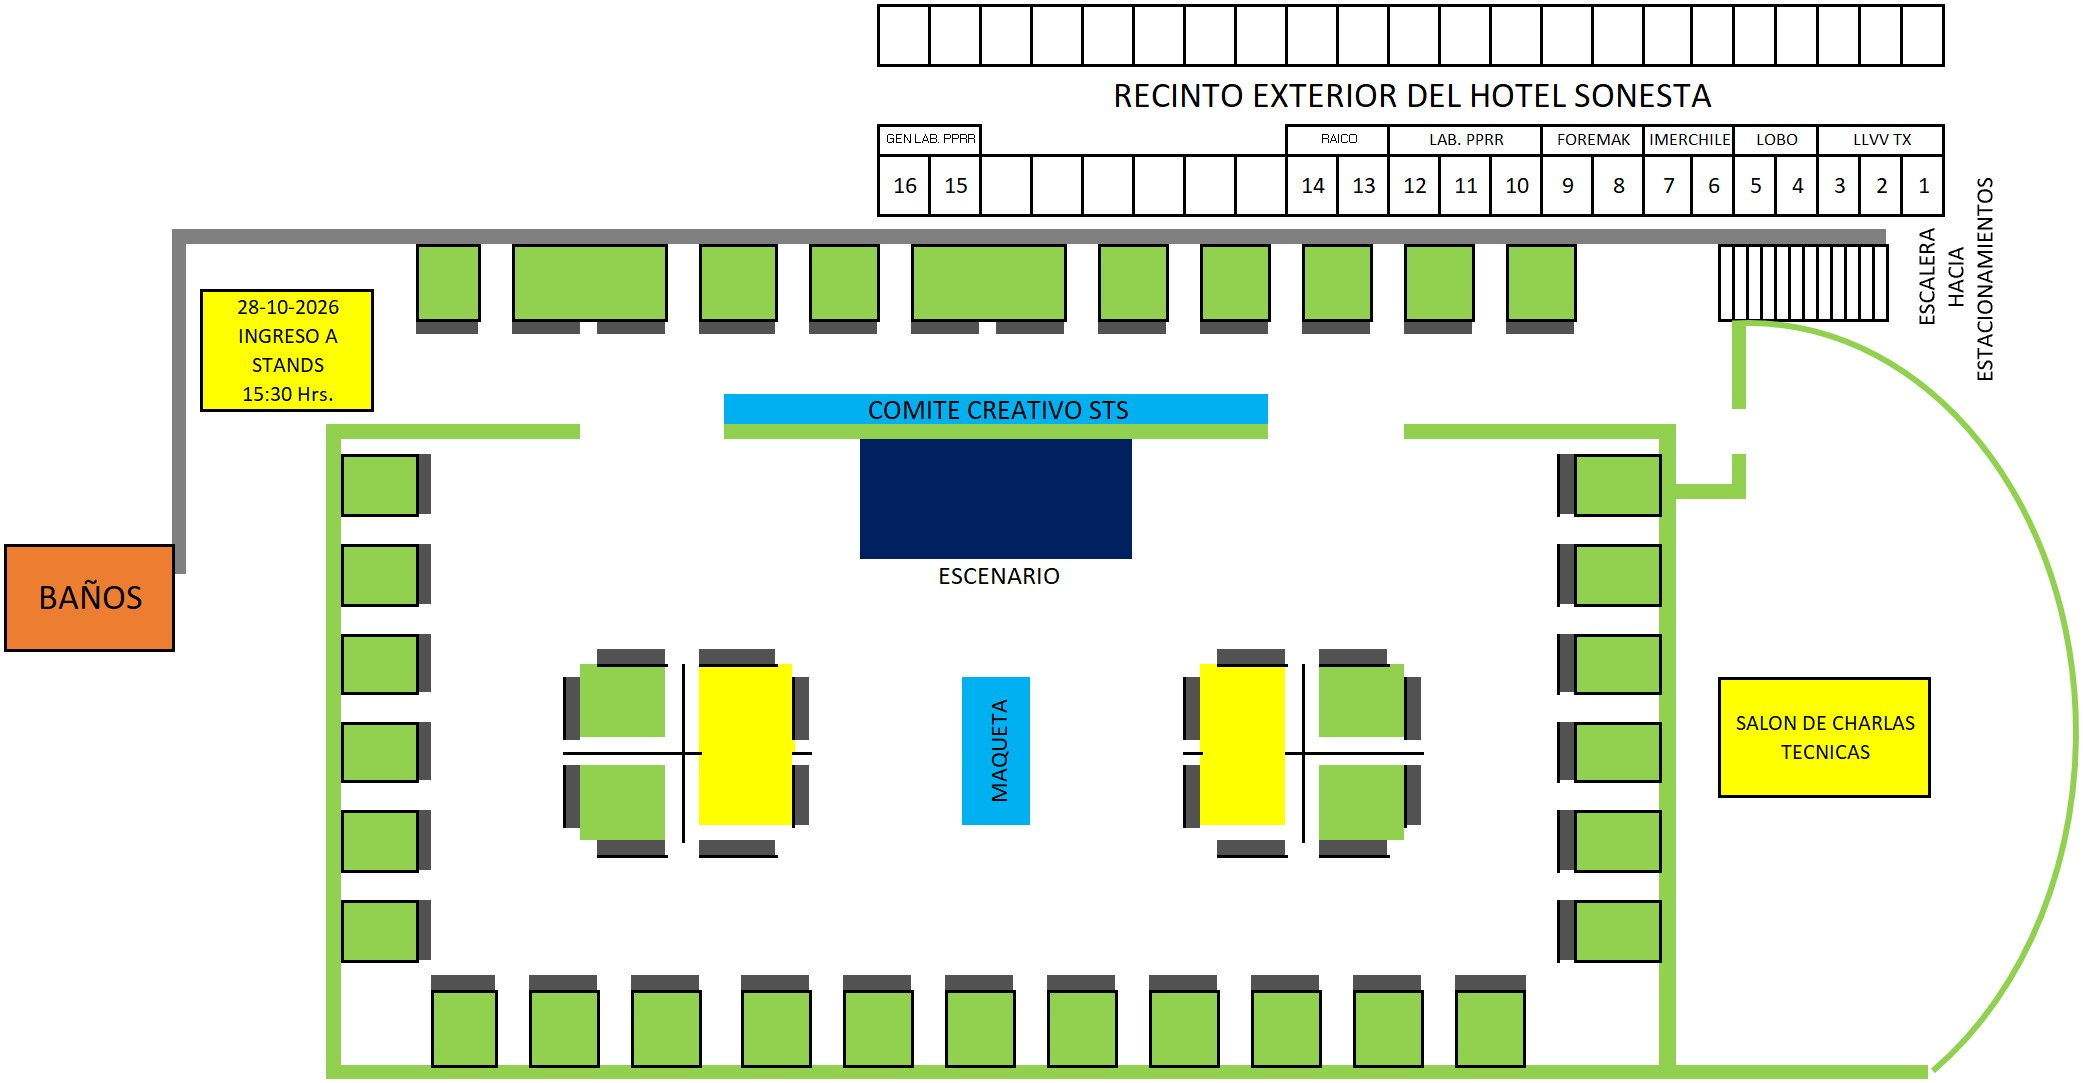
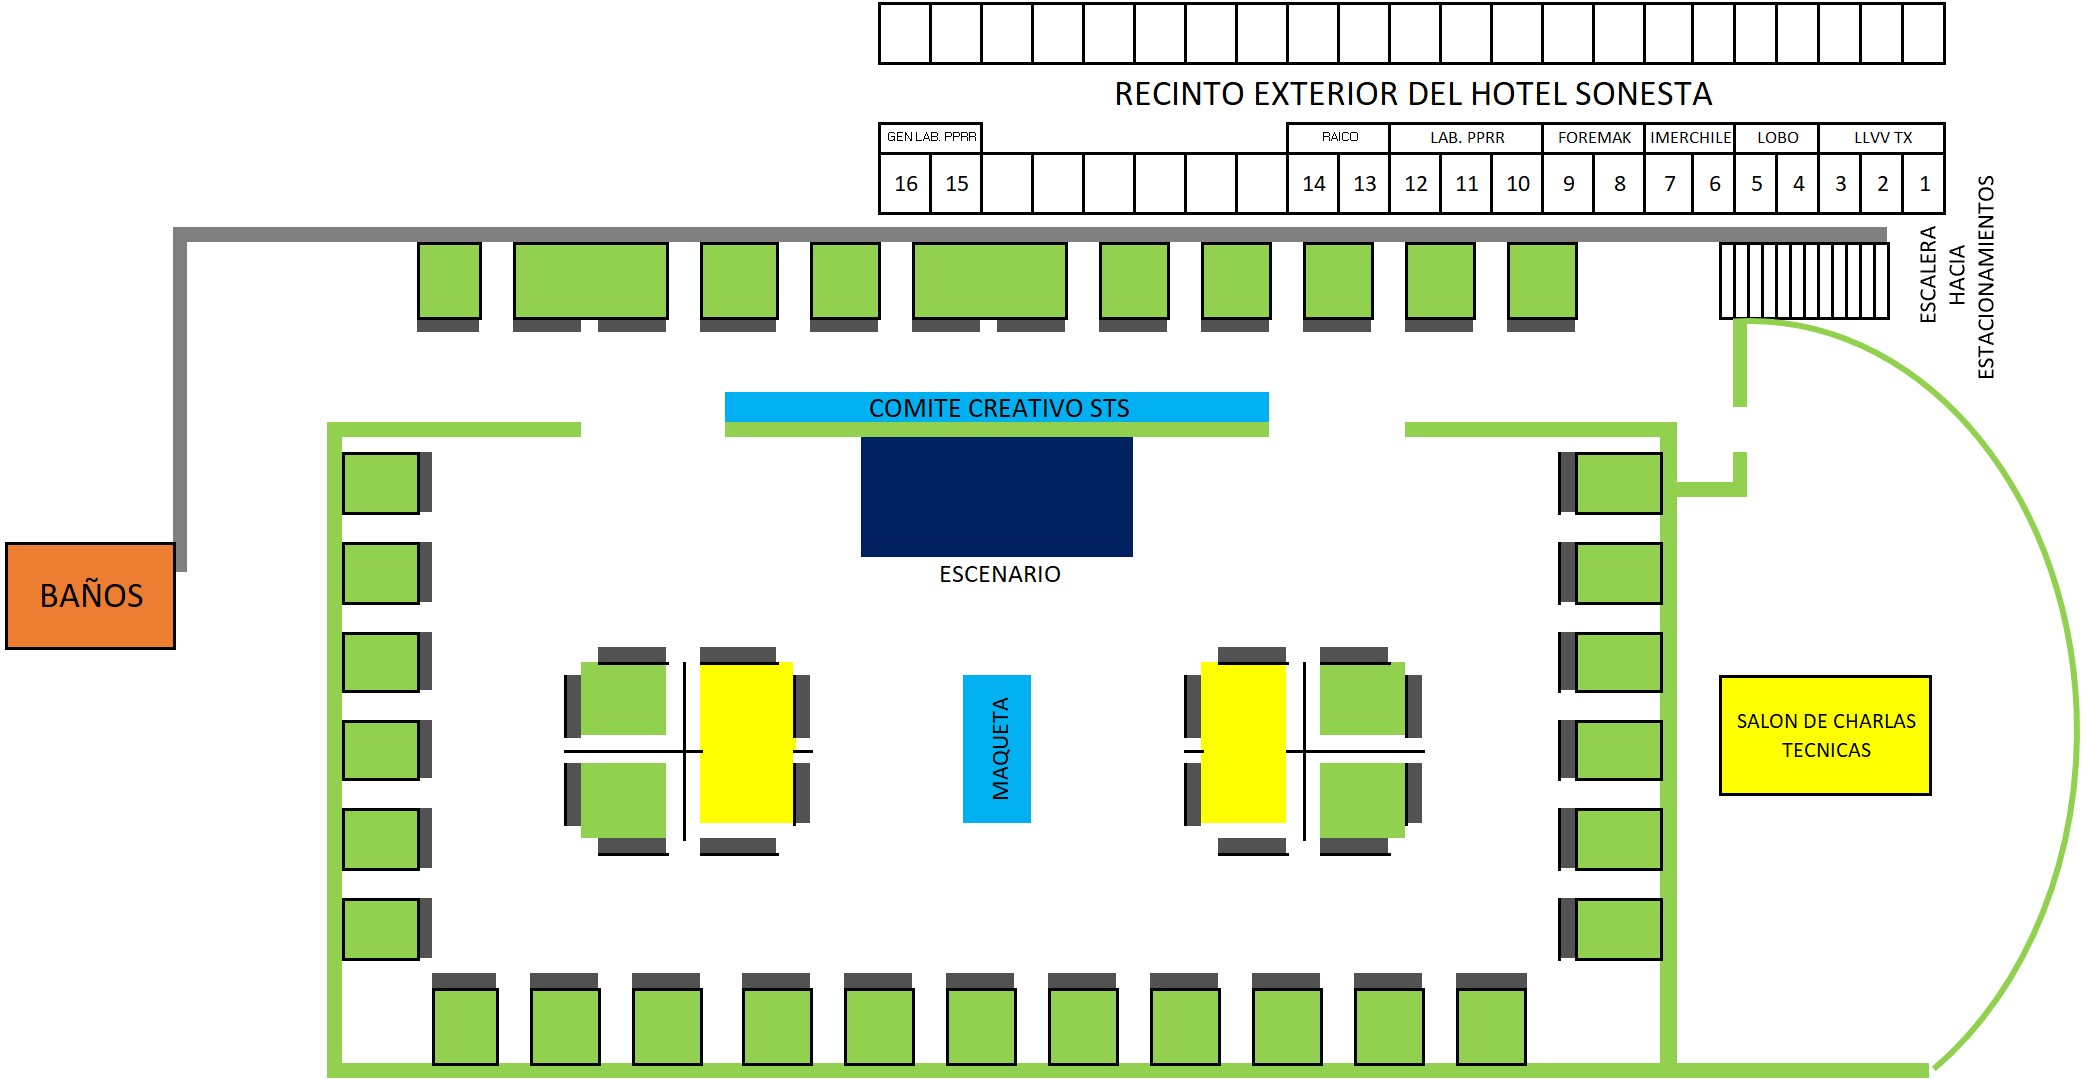
Refactor background colors and update styles for consistency across components

diff --git a/app/globals.css b/app/globals.css
@@ -1,8 +1,9 @@
 @import "tailwindcss";
 
 :root {
-  --background: #f6f7f3;
-  --foreground: #142b3b;
+  --background: #0b0b0b;
+  --foreground: #f5f1e6;
+  color-scheme: dark;
 }
 
 @theme inline {
@@ -10,10 +11,68 @@
   --color-foreground: var(--foreground);
   --font-sans: var(--font-geist-sans);
   --font-mono: var(--font-geist-mono);
+  --color-slate-50: #11110f;
+  --color-slate-100: #181816;
+  --color-slate-200: #272722;
+  --color-slate-300: #38382f;
+  --color-slate-400: #515146;
+  --color-slate-500: #6b6b5d;
+  --color-slate-600: #858577;
+  --color-slate-700: #a2a291;
+  --color-slate-800: #c2c1ae;
+  --color-slate-900: #e4e1d4;
+  --color-slate-950: #f5f2e8;
+  --color-sky-50: #211b0b;
+  --color-sky-100: #30250d;
+  --color-sky-200: #4a390d;
+  --color-sky-300: #775b12;
+  --color-sky-400: #a7801b;
+  --color-sky-500: #c69a25;
+  --color-sky-600: #d6a92d;
+  --color-sky-700: #e0b840;
+  --color-sky-800: #ebca68;
+  --color-sky-900: #f2dc9b;
+  --color-sky-950: #fbf0ca;
+  --color-amber-50: #211a08;
+  --color-amber-100: #30240a;
+  --color-amber-200: #4c370a;
+  --color-amber-300: #8a6410;
+  --color-amber-400: #c49319;
+  --color-amber-500: #d8a71e;
+  --color-amber-600: #e5b72e;
+  --color-amber-700: #edc64e;
+  --color-amber-800: #f3d782;
+  --color-amber-900: #f8e8b5;
+  --color-amber-950: #fcf4dc;
 }
 
 body {
   background: var(--background);
   color: var(--foreground);
   font-family: Arial, Helvetica, sans-serif;
+}
+
+[class~="text-slate-50"] { color: #fff9e8; }
+[class~="text-slate-100"] { color: #f8f3e4; }
+[class~="text-slate-200"] { color: #e9e3d2; }
+[class~="text-slate-300"] { color: #d6cfbc; }
+[class~="text-slate-400"] { color: #b5ad98; }
+[class~="text-slate-500"] { color: #a49c88; }
+[class~="text-slate-600"] { color: #c3bcaa; }
+[class~="text-slate-700"] { color: #ddd6c4; }
+[class~="text-slate-800"] { color: #eee8d8; }
+[class~="text-slate-900"] { color: #f5f1e6; }
+[class~="text-slate-950"] { color: #fffbed; }
+[class~="bg-white"] { background-color: #171715; }
+[class~="bg-white/80"] { background-color: rgb(23 23 21 / 80%); }
+[class~="bg-white/90"] { background-color: rgb(23 23 21 / 90%); }
+[class~="bg-white/10"] { background-color: rgb(255 255 255 / 10%); }
+[class~="bg-slate-700"] { background-color: #292923; }
+[class~="bg-slate-800"] { background-color: #20201d; }
+[class~="bg-slate-900"] { background-color: #111110; }
+[class~="bg-slate-950"] { background-color: #080808; }
+
+.qr-code-surface {
+  background-color: #fff;
+  color: #111;
 }

diff --git a/components/HomeSchedule.tsx b/components/HomeSchedule.tsx
@@ -53,7 +53,7 @@ export default function HomeSchedule({ talks }: HomeScheduleProps) {
         <div>
           <div className="mb-4">
             <p className="text-sm font-semibold text-red-600">AHORA</p>
-            <h2 className="mt-1 text-2xl font-bold text-[#12344a]">
+            <h2 className="mt-1 text-2xl font-bold text-slate-900">
               En vivo
             </h2>
           </div>
@@ -71,7 +71,7 @@ export default function HomeSchedule({ talks }: HomeScheduleProps) {
             <p className="text-sm font-bold uppercase tracking-wider text-sky-700">
               Sigue en el programa
             </p>
-            <h2 className="mt-1 text-2xl font-bold tracking-tight text-[#12344a] sm:text-3xl">
+            <h2 className="mt-1 text-2xl font-bold tracking-tight text-slate-900 sm:text-3xl">
               Próxima actividad
             </h2>
             <p className="mt-2 text-sm text-slate-600">
@@ -89,15 +89,15 @@ export default function HomeSchedule({ talks }: HomeScheduleProps) {
 
         {nextTalk ? (
           <div className="grid gap-4 lg:grid-cols-[1.2fr_0.8fr]">
-            <div className="overflow-hidden rounded-2xl border border-slate-200 bg-[#12344a] text-white shadow-sm">
+            <div className="overflow-hidden rounded-2xl border border-slate-200 bg-slate-900 text-white shadow-sm">
               <div className="h-1.5 bg-amber-400" />
 
               <div className="p-6 sm:p-8">
-                <span className="inline-flex rounded-full bg-white/10 px-3 py-1 text-xs font-bold text-sky-100">
+                <span className="inline-flex rounded-full bg-amber-400 px-3 py-1 text-xs font-bold text-[#0b0b0b]">
                   PRÓXIMO EVENTO
                 </span>
 
-                <p className="mt-6 text-sm font-semibold text-sky-200">
+                <p className="mt-6 text-sm font-semibold text-amber-800">
                   {formatTime(nextTalk.start)} — {formatTime(nextTalk.end)}
                 </p>
 

diff --git a/components/Hero.tsx b/components/Hero.tsx
@@ -53,7 +53,7 @@ export default function Hero({ eventDate }: HeroProps) {
     : null;
 
   return (
-    <section className="relative overflow-hidden border-b border-slate-200/70 bg-[#f1f5f3] text-slate-900">
+    <section className="relative overflow-hidden border-b border-slate-200/70 bg-slate-50 text-slate-900">
       <div
         aria-hidden="true"
         className="pointer-events-none absolute -right-24 -top-24 h-80 w-80 rounded-full bg-amber-300/20 blur-3xl"
@@ -96,7 +96,7 @@ export default function Hero({ eventDate }: HeroProps) {
             Hotel Sonesta, Osorno, Chile
           </p>
 
-          <h2 className="mt-5 max-w-5xl text-4xl font-extrabold leading-tight tracking-tight text-[#12344a] sm:text-5xl lg:text-6xl">
+          <h2 className="mt-5 max-w-5xl text-4xl font-extrabold leading-tight tracking-tight text-slate-900 sm:text-5xl lg:text-6xl">
             Cien años de seguridad y{" "}
             <span className="text-sky-700">resiliencia energética</span>
           </h2>
@@ -135,7 +135,7 @@ export default function Hero({ eventDate }: HeroProps) {
             aria-hidden="true"
             className="absolute h-48 w-48 rounded-full border border-amber-500/20"
           />
-          <div className="relative w-full rounded-3xl border border-white/80 bg-white/90 px-6 py-8 shadow-[0_20px_60px_rgba(18,52,74,0.10)] ring-1 ring-slate-200/70">
+          <div className="relative w-full rounded-3xl border border-white/80 bg-white/90 px-6 py-8 shadow-[0_20px_60px_rgba(0,0,0,0.4)] ring-1 ring-slate-200/70">
             <Image
               src="/images/grupo-saesa-logo.svg"
               alt="Grupo SAESA"

diff --git a/components/AdminStandMapEditor.tsx b/components/AdminStandMapEditor.tsx
@@ -197,8 +197,8 @@ export default function AdminStandMapEditor({
                 y={area.y}
                 width={area.width}
                 height={area.height}
-                fill="rgba(14, 116, 144, 0.22)"
-                stroke="#0e7490"
+                fill="rgba(214, 169, 45, 0.22)"
+                stroke="#a7801b"
                 strokeWidth="0.35"
                 vectorEffect="non-scaling-stroke"
                 pointerEvents="none"
@@ -211,8 +211,8 @@ export default function AdminStandMapEditor({
               y={displayedArea.y}
               width={displayedArea.width}
               height={displayedArea.height}
-              fill="rgba(245, 158, 11, 0.5)"
-              stroke="#b45309"
+              fill="rgba(214, 169, 45, 0.5)"
+              stroke="#d6a92d"
               strokeWidth="0.5"
               vectorEffect="non-scaling-stroke"
               pointerEvents="none"
@@ -221,8 +221,9 @@ export default function AdminStandMapEditor({
         </svg>
       </div>
       <p className="mt-3 text-xs text-slate-500">
-        Las áreas azules ya están asignadas. La zona amarilla corresponde al
-        stand que estás ubicando; no se guardará hasta que confirmes.
+        Las áreas con relleno tenue ya están asignadas. El relleno dorado más
+        intenso corresponde al stand que estás ubicando; no se guardará hasta
+        que confirmes.
       </p>
     </section>
   );

diff --git a/app/stands/[slug]/page.tsx b/app/stands/[slug]/page.tsx
@@ -25,7 +25,7 @@ export default async function StandPage({ params }: StandPageProps) {
 
   if (!stand) {
     return (
-      <main className="min-h-screen bg-[#f6f7f3]">
+      <main className="min-h-screen bg-background">
         <Header />
 
         <div className="mx-auto max-w-3xl px-5 py-16 text-center">
@@ -48,7 +48,7 @@ export default async function StandPage({ params }: StandPageProps) {
 
   if (!company) {
     return (
-      <main className="min-h-screen bg-[#f6f7f3]">
+      <main className="min-h-screen bg-background">
         <Header />
 
         <div className="mx-auto max-w-3xl px-5 py-16 text-center">
@@ -61,7 +61,7 @@ export default async function StandPage({ params }: StandPageProps) {
   }
 
   return (
-    <main className="min-h-screen bg-[#f6f7f3]">
+    <main className="min-h-screen bg-background">
       <Header />
 
       <div className="mx-auto max-w-4xl px-5 py-8">
@@ -154,7 +154,7 @@ export default async function StandPage({ params }: StandPageProps) {
 
         {stand.contestRequired && (
           <section className="mt-8">
-            <div className="rounded-2xl bg-[#12344a] p-6 text-white">
+            <div className="rounded-2xl bg-slate-900 p-6 text-white">
               <p className="text-sm font-semibold text-sky-300">CONCURSO</p>
 
               <h2 className="mt-2 text-xl font-bold">Registra tu visita</h2>

diff --git a/components/AdminLogin.tsx b/components/AdminLogin.tsx
@@ -81,7 +81,7 @@ export default function AdminLogin({
             required
             value={username}
             onChange={(event) => setUsername(event.target.value)}
-            className="mt-2 w-full rounded-xl border border-slate-300 bg-[#fbfcfa] px-4 py-3 text-slate-900 outline-none focus:border-sky-700 focus:ring-2 focus:ring-sky-700/20"
+            className="mt-2 w-full rounded-xl border border-slate-300 bg-slate-100 px-4 py-3 text-slate-900 outline-none focus:border-sky-700 focus:ring-2 focus:ring-sky-700/20"
           />
         </div>
 
@@ -99,7 +99,7 @@ export default function AdminLogin({
             required
             value={password}
             onChange={(event) => setPassword(event.target.value)}
-            className="mt-2 w-full rounded-xl border border-slate-300 bg-[#fbfcfa] px-4 py-3 text-slate-900 outline-none focus:border-sky-700 focus:ring-2 focus:ring-sky-700/20"
+            className="mt-2 w-full rounded-xl border border-slate-300 bg-slate-100 px-4 py-3 text-slate-900 outline-none focus:border-sky-700 focus:ring-2 focus:ring-sky-700/20"
           />
         </div>
 

diff --git a/app/concurso/page.tsx b/app/concurso/page.tsx
@@ -205,7 +205,7 @@ export default function ConcursoPage() {
 
   if (loading) {
     return (
-      <main className="min-h-screen bg-[#f6f7f3]">
+      <main className="min-h-screen bg-background">
         <Header />
 
         <div className="mx-auto max-w-4xl px-5 py-16 text-center">
@@ -217,7 +217,7 @@ export default function ConcursoPage() {
 
   if (error) {
     return (
-      <main className="min-h-screen bg-[#f6f7f3]">
+      <main className="min-h-screen bg-background">
         <Header />
 
         <div className="mx-auto max-w-4xl px-5 py-16">
@@ -379,7 +379,7 @@ export default function ConcursoPage() {
             {/* PROGRESO */}
 
             <section className="mt-8">
-              <div className="rounded-3xl bg-[#12344a] p-6 text-white">
+              <div className="rounded-3xl bg-slate-900 p-6 text-white">
                 <div className="flex items-end justify-between gap-4">
                   <div>
                     <p className="text-sm font-semibold text-sky-300">

diff --git a/components/InteractiveStandMap.tsx b/components/InteractiveStandMap.tsx
@@ -145,7 +145,7 @@ export default function InteractiveStandMap({ stands, companies }: Props) {
                           ? "rgba(34, 197, 94, 0.72)"
                           : "rgba(250, 204, 21, 0.72)"
                       }
-                      stroke={isSelected ? "#075985" : "#ffffff"}
+                      stroke={isSelected ? "#d6a92d" : "#ffffff"}
                       strokeWidth={isSelected ? "0.55" : "0.25"}
                       vectorEffect="non-scaling-stroke"
                     />
@@ -154,7 +154,7 @@ export default function InteractiveStandMap({ stands, companies }: Props) {
                       y={area.y + area.height / 2}
                       textAnchor="middle"
                       dominantBaseline="central"
-                      fill="#0f172a"
+                      fill="#0b0b0b"
                       fontSize="2"
                       fontWeight="700"
                       pointerEvents="none"

diff --git a/app/stands/[slug]/qr/page.tsx b/app/stands/[slug]/qr/page.tsx
@@ -24,7 +24,7 @@ export default async function QRPage({ params }: QRPageProps) {
 
   if (!stand) {
     return (
-      <main className="min-h-screen bg-[#f6f7f3]">
+      <main className="min-h-screen bg-background">
         <Header />
 
         <div className="mx-auto max-w-3xl px-5 py-16 text-center">
@@ -47,7 +47,7 @@ export default async function QRPage({ params }: QRPageProps) {
 
   if (!company) {
     return (
-      <main className="min-h-screen bg-[#f6f7f3]">
+      <main className="min-h-screen bg-background">
         <Header />
 
         <div className="mx-auto max-w-3xl px-5 py-16 text-center">
@@ -60,7 +60,7 @@ export default async function QRPage({ params }: QRPageProps) {
   }
 
   return (
-    <main className="min-h-screen bg-[#f6f7f3]">
+    <main className="min-h-screen bg-background">
       <Header />
 
       <div className="mx-auto max-w-3xl px-5 py-8">

diff --git a/components/ParticipantForm.tsx b/components/ParticipantForm.tsx
@@ -165,7 +165,7 @@ export default function ParticipantForm({
           onChange={(event) =>
             setName(event.target.value)
           }
-          className="mt-2 w-full rounded-xl border border-slate-300 bg-[#fbfcfa] px-4 py-3 text-slate-900 outline-none placeholder:text-slate-400 focus:border-sky-700 focus:ring-2 focus:ring-sky-700/20"
+          className="mt-2 w-full rounded-xl border border-slate-300 bg-slate-100 px-4 py-3 text-slate-900 outline-none placeholder:text-slate-400 focus:border-sky-700 focus:ring-2 focus:ring-sky-700/20"
           placeholder="Juan Pérez"
         />
       </div>

diff --git a/components/StandLocationMap.tsx b/components/StandLocationMap.tsx
@@ -35,7 +35,7 @@ export default function StandLocationMap({ stand }: Props) {
           height={area.height}
           rx="0.7"
           fill="rgba(250, 204, 21, 0.88)"
-          stroke="#92400e"
+          stroke="#d6a92d"
           strokeWidth="0.7"
           vectorEffect="non-scaling-stroke"
         />
@@ -44,7 +44,7 @@ export default function StandLocationMap({ stand }: Props) {
           y={area.y + area.height / 2}
           textAnchor="middle"
           dominantBaseline="central"
-          fill="#422006"
+          fill="#211a08"
           fontSize="2"
           fontWeight="700"
         >

diff --git a/components/QuickLinks.tsx b/components/QuickLinks.tsx
@@ -24,7 +24,7 @@ const links = [
 export default function QuickLinks() {
   return (
     <section className="mt-10">
-      <h2 className="mb-4 text-xl font-bold text-[#12344a]">
+      <h2 className="mb-4 text-xl font-bold text-slate-900">
         Explora la feria
       </h2>
 
@@ -39,7 +39,7 @@ export default function QuickLinks() {
               {link.icon}
             </span>
 
-            <p className="mt-3 font-bold text-[#12344a]">
+            <p className="mt-3 font-bold text-slate-900">
               {link.title}
             </p>
 
